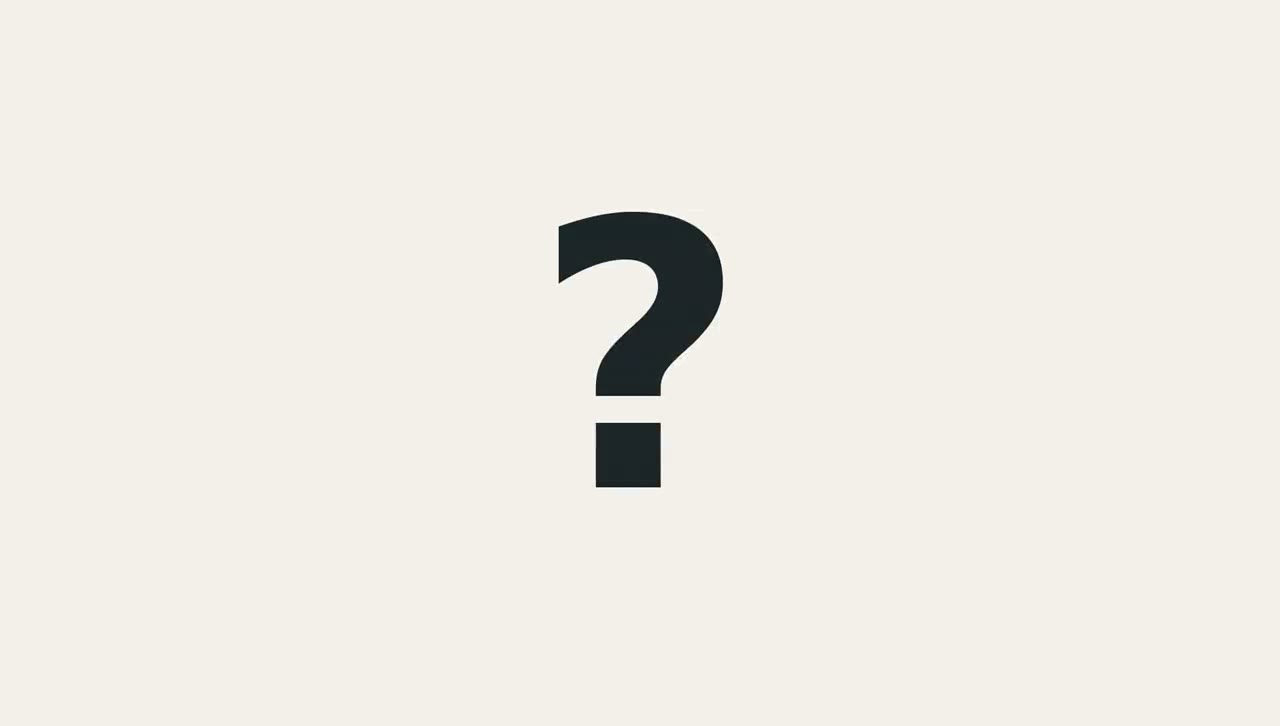
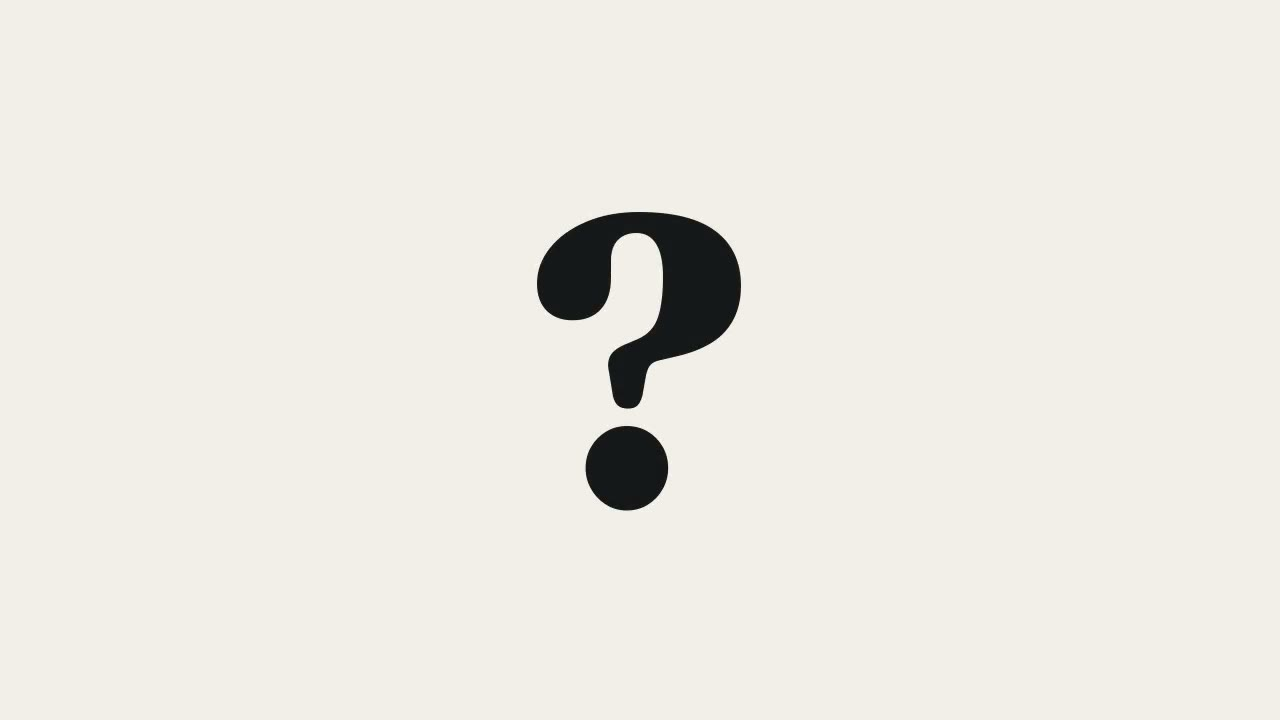
SSS soru işareti Fraunces kalın

Changed region(s): [[0.4062, 0.275, 0.5938, 0.7333]]

diff --git a/index.html b/index.html
@@ -258,7 +258,7 @@ footer a.ik{display:inline-flex;align-items:center;gap:10px}footer a.ik svg{widt
     </section>
   </div>
   <aside class="sahne" aria-hidden="true"><div class="cerceve" id="cerceve2">
-    <video class="on" muted loop playsinline preload="metadata" poster="img/video/sorular.jpg?v=1794249254" src="img/video/sorular.mp4?v=1794249254"></video>
+    <video class="on" muted loop playsinline preload="metadata" poster="img/video/sorular.jpg?v=1794291166" src="img/video/sorular.mp4?v=1794291166"></video>
     <video muted loop playsinline preload="metadata" poster="img/video/iletisim.jpg?v=1794249473" src="img/video/iletisim.mp4?v=1794249473"></video>
     <span class="altyazi" id="altyazi2">Bekleme salonu</span>
   </div></aside>
